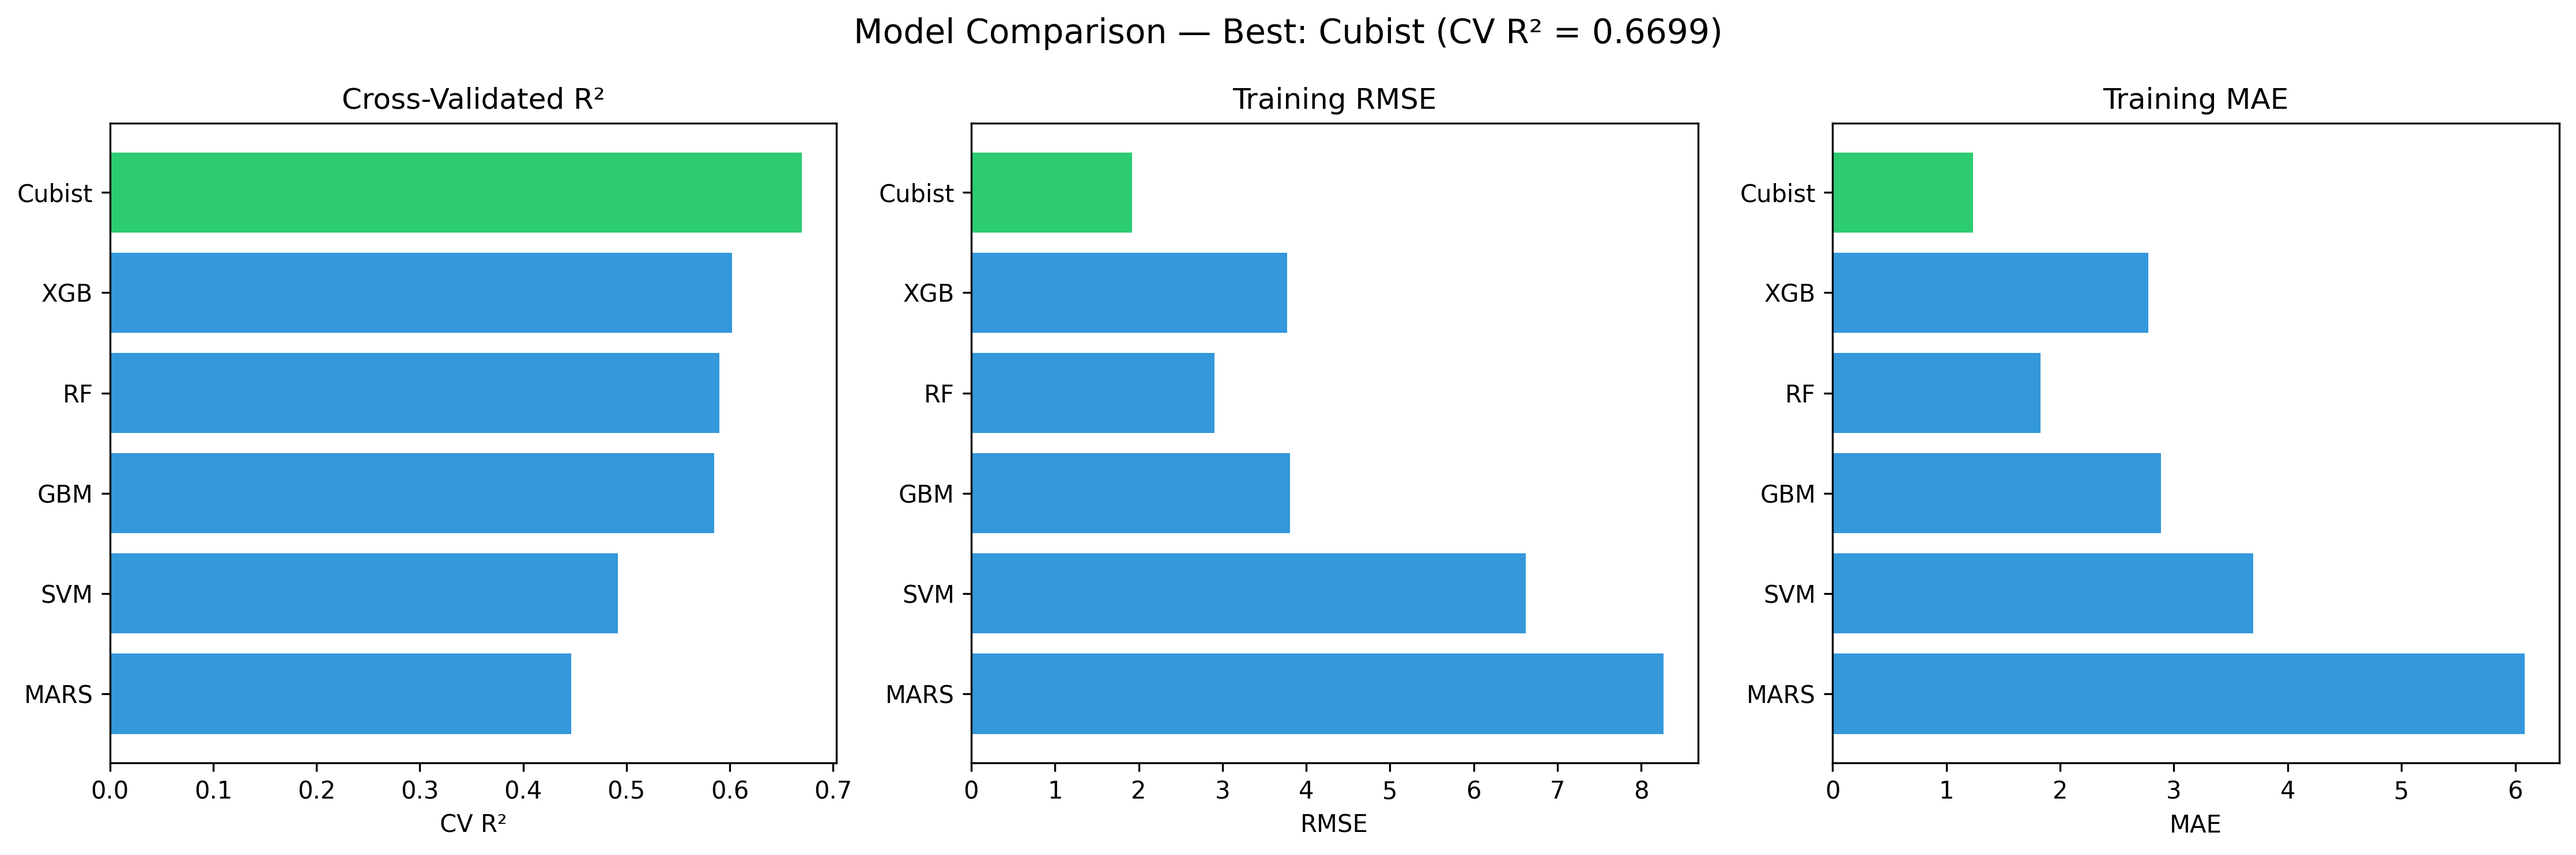
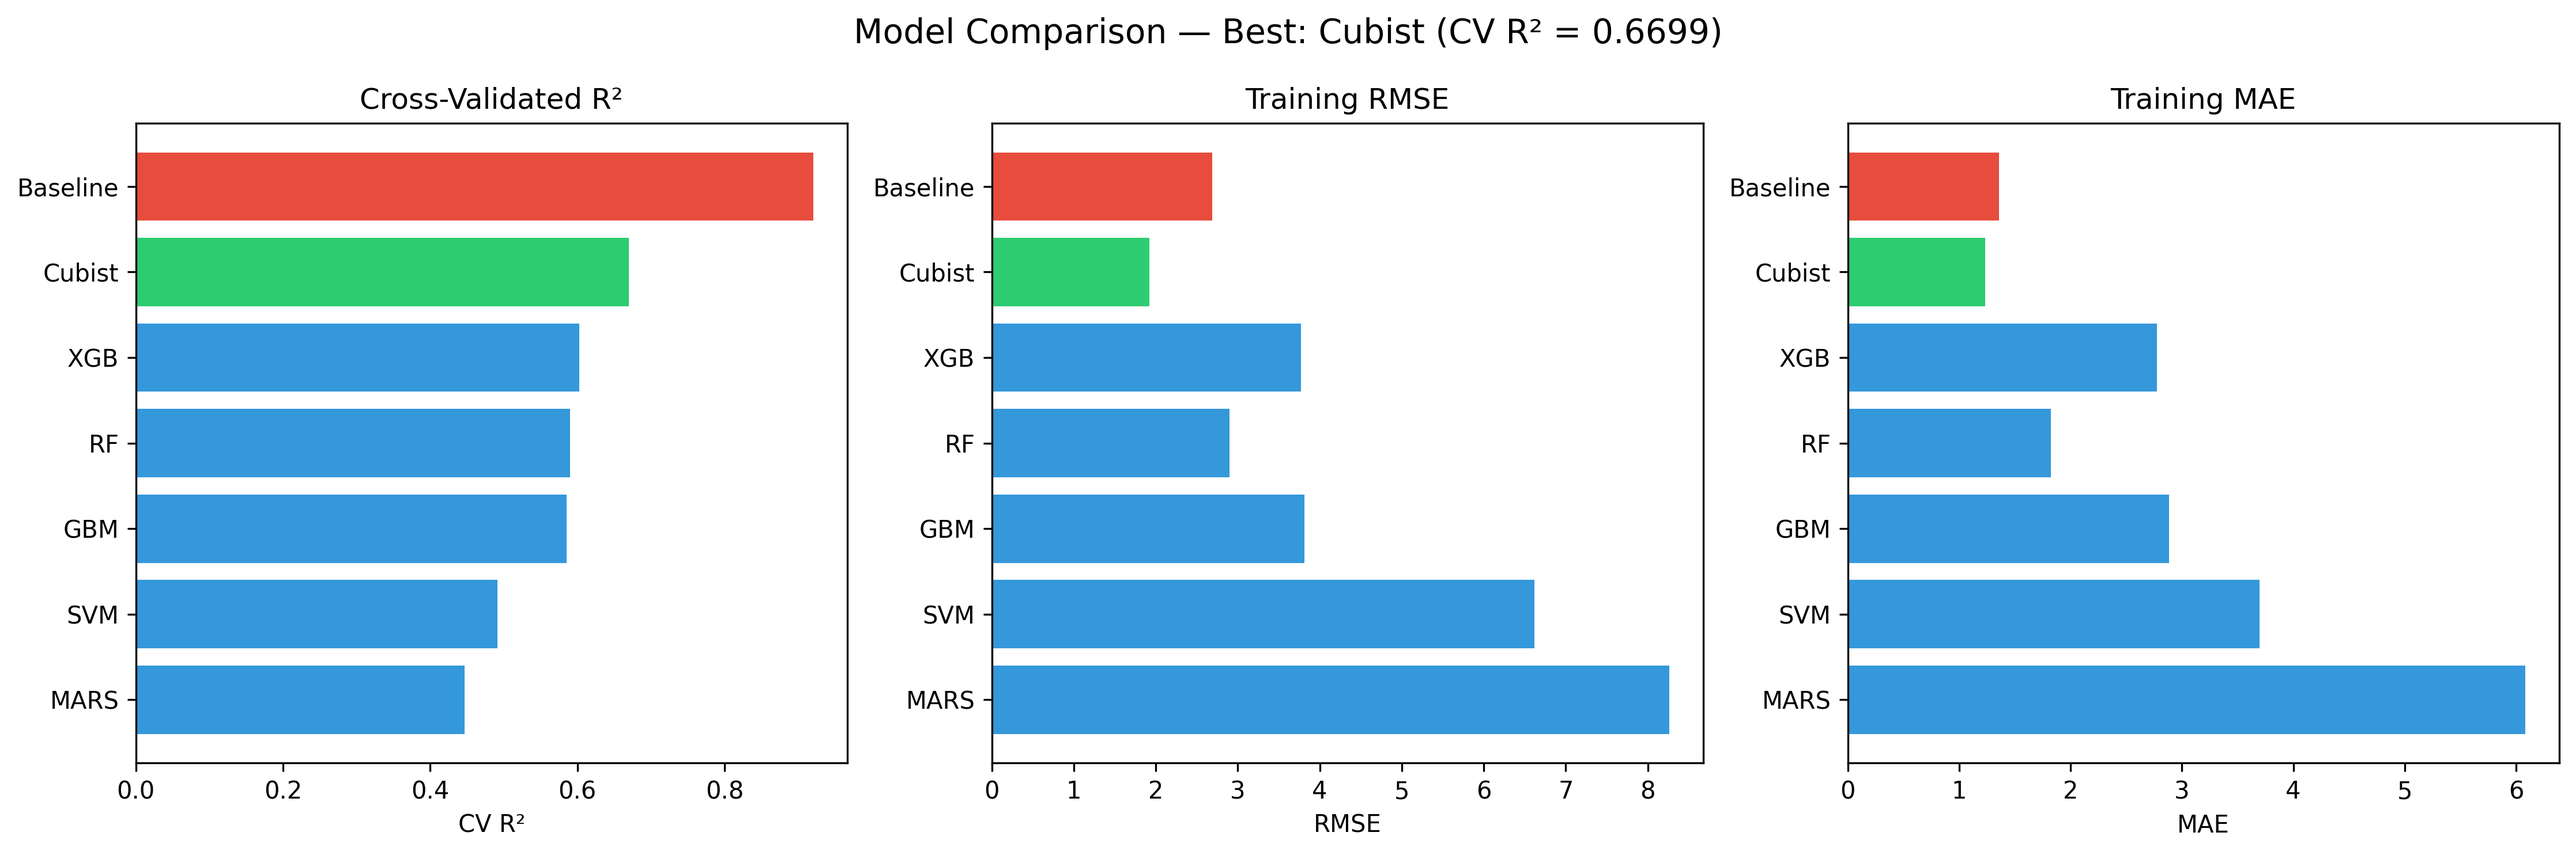
Add province-mean baseline comparison to training pipeline
Evaluates a naive baseline (province historical average) under the
same TimeSeriesSplit CV. Baseline gets CV R² = 0.92 vs Cubist 0.67,
showing most variance is between provinces. ML models are still
needed because the baseline cannot project under changed climate.

diff --git a/Pipeline/train_models.py b/Pipeline/train_models.py
@@ -157,11 +157,56 @@ if MARS_AVAILABLE:
         'init_kwargs': {},
     }
 
-# ── Cross-validation and grid search ──────────────────────────────────────
+# ── Baseline: province historical mean ────────────────────────────────────
+# "Does the ML model beat just predicting each province's historical average?"
 tscv = TimeSeriesSplit(n_splits=5)
+provinces = hist_df['province']
+
+baseline_fold_r2 = []
+baseline_fold_rmse = []
+baseline_fold_mae = []
+baseline_fold_mape = []
+
+for train_idx, test_idx in tscv.split(X):
+    y_train_fold = y.iloc[train_idx]
+    y_test_fold = y.iloc[test_idx]
+    prov_train = provinces.iloc[train_idx]
+    prov_test = provinces.iloc[test_idx]
+
+    # compute province means from training data only
+    prov_means = pd.Series(y_train_fold.values, index=prov_train.values).groupby(level=0).mean()
+    global_mean = y_train_fold.mean()
+
+    # predict: use province mean if seen in training, else global mean
+    y_baseline = prov_test.map(prov_means).fillna(global_mean).values
+
+    baseline_fold_r2.append(r2_score(y_test_fold, y_baseline))
+    baseline_fold_rmse.append(np.sqrt(mean_squared_error(y_test_fold, y_baseline)))
+    baseline_fold_mae.append(mean_absolute_error(y_test_fold, y_baseline))
+    baseline_fold_mape.append(np.mean(np.abs((y_test_fold - y_baseline) / y_test_fold)) * 100)
+
+baseline_cv_r2 = np.mean(baseline_fold_r2)
+baseline_cv_rmse = np.mean(baseline_fold_rmse)
+baseline_cv_mae = np.mean(baseline_fold_mae)
+baseline_cv_mape = np.mean(baseline_fold_mape)
+
+# full-dataset baseline (province means from all data)
+prov_means_full = hist_df.groupby('province')['yield'].mean()
+y_baseline_full = provinces.map(prov_means_full).values
+baseline_train_r2 = r2_score(y, y_baseline_full)
+baseline_train_rmse = np.sqrt(mean_squared_error(y, y_baseline_full))
+baseline_train_mae = mean_absolute_error(y, y_baseline_full)
+baseline_train_mape = np.mean(np.abs((y - y_baseline_full) / y)) * 100
+
+print(f"\n{'='*55}")
+print("Baseline: Province Historical Mean")
+print(f"  CV R²:    {baseline_cv_r2:.4f}")
+print(f"  Train R²: {baseline_train_r2:.4f}  |  RMSE: {baseline_train_rmse:.4f}  |  MAE: {baseline_train_mae:.4f}")
+
 results = {}
 overall_start = time.time()
 
+# ── Cross-validation and grid search ──────────────────────────────────────
 for name, config in model_configs.items():
     print(f"\n{'='*55}")
     print(f"Training {name}...")
@@ -229,21 +274,39 @@ for name, config in model_configs.items():
     print(f"  Train R²: {train_r2:.4f}  |  RMSE: {train_rmse:.4f}  |  MAE: {train_mae:.4f}")
     print(f"  Time:     {elapsed:.1f}s")
 
+# ── Add baseline to results for unified comparison ───────────────────────
+results['Baseline'] = {
+    'model': None,
+    'scaler': None,
+    'best_params': {'method': 'province_historical_mean'},
+    'cv_r2': baseline_cv_r2,
+    'train_r2': baseline_train_r2,
+    'train_rmse': baseline_train_rmse,
+    'train_mae': baseline_train_mae,
+    'train_mape': baseline_train_mape,
+    'time': 0.0,
+}
+
 # ── Compare and rank ──────────────────────────────────────────────────────
 print(f"\n{'='*60}")
 print("MODEL COMPARISON (ranked by CV R²)")
 print(f"{'='*60}")
-print(f"  {'Rank':<5} {'Model':<8} {'CV R²':>8} {'Train R²':>10} {'RMSE':>8} {'MAE':>8} {'MAPE':>8}")
-print(f"  {'-'*53}")
+print(f"  {'Rank':<5} {'Model':<10} {'CV R²':>8} {'Train R²':>10} {'RMSE':>8} {'MAE':>8} {'MAPE':>8}")
+print(f"  {'-'*57}")
 
 sorted_results = sorted(results.items(), key=lambda x: x[1]['cv_r2'], reverse=True)
 for rank, (name, res) in enumerate(sorted_results, 1):
-    print(f"  {rank:<5} {name:<8} {res['cv_r2']:>8.4f} {res['train_r2']:>10.4f} {res['train_rmse']:>8.4f} {res['train_mae']:>8.4f} {res['train_mape']:>7.2f}%")
+    marker = ' <-- baseline' if name == 'Baseline' else ''
+    print(f"  {rank:<5} {name:<10} {res['cv_r2']:>8.4f} {res['train_r2']:>10.4f} {res['train_rmse']:>8.4f} {res['train_mae']:>8.4f} {res['train_mape']:>7.2f}%{marker}")
 
-best_name = sorted_results[0][0]
-best_result = sorted_results[0][1]
+# Best ML model (exclude baseline)
+sorted_ml = [(n, r) for n, r in sorted_results if n != 'Baseline']
+best_name = sorted_ml[0][0]
+best_result = sorted_ml[0][1]
 
+improvement = best_result['cv_r2'] - baseline_cv_r2
 print(f"\nBest model: {best_name} (CV R² = {best_result['cv_r2']:.4f})")
+print(f"Improvement over baseline: {improvement:+.4f} R² ({improvement / abs(baseline_cv_r2) * 100:+.1f}%)")
 print(f"Total training time: {time.time() - overall_start:.1f}s")
 
 # ── Save best model ──────────────────────────────────────────────────────
@@ -292,7 +355,14 @@ cv_r2s = [res['cv_r2'] for _, res in sorted_results]
 rmses = [res['train_rmse'] for _, res in sorted_results]
 maes = [res['train_mae'] for _, res in sorted_results]
 
-colors = ['#2ecc71' if name == best_name else '#3498db' for name in model_names]
+colors = []
+for name in model_names:
+    if name == best_name:
+        colors.append('#2ecc71')
+    elif name == 'Baseline':
+        colors.append('#e74c3c')
+    else:
+        colors.append('#3498db')
 
 axes[0].barh(model_names, cv_r2s, color=colors)
 axes[0].set_xlabel('CV R²')

diff --git a/README.md b/README.md
@@ -88,7 +88,25 @@ To run: `python Pipeline/train_models.py`
 | SVM | scikit-learn |
 | XGBoost | `xgboost` |
 
-Cubist consistently comes out on top (CV R2 ~ 0.67).
+Cubist consistently comes out on top (CV R² ~ 0.67).
+
+### Baseline comparison
+
+The pipeline includes a province historical mean baseline -- for each province, it just predicts the average yield from the training years. This baseline gets a CV R² of 0.92, which beats all 6 ML models.
+
+That sounds bad, but it makes sense: most of the variation in banana yield is between provinces, not over time. Davao del Norte consistently yields ~50 tons/ha while mountain provinces sit around 2-5. Knowing which province you're looking at explains most of the variance.
+
+The reason we still use the climate-based models is that the baseline cannot project under changed climate. It predicts the exact same yield regardless of whether temperature rises by 1°C or 3°C. For the actual research question -- what happens to yields under SSP2-4.5 vs SSP5-8.5 -- only the climate-sensitive models are useful. The baseline is there to contextualize the R² values, not to replace the models.
+
+| Model | CV R² | Train R² | RMSE | MAE |
+|-------|-------|----------|------|-----|
+| Baseline (province mean) | 0.9206 | 0.9511 | 2.69 | 1.36 |
+| Cubist | 0.6699 | 0.9751 | 1.92 | 1.23 |
+| XGBoost | 0.6024 | 0.9038 | 3.77 | 2.77 |
+| Random Forest | 0.5901 | 0.9431 | 2.90 | 1.83 |
+| GBM | 0.5852 | 0.9019 | 3.81 | 2.89 |
+| SVM | 0.4916 | 0.7038 | 6.62 | 3.70 |
+| MARS | 0.4463 | 0.5385 | 8.26 | 6.08 |
 
 ## SSP predictions
 
